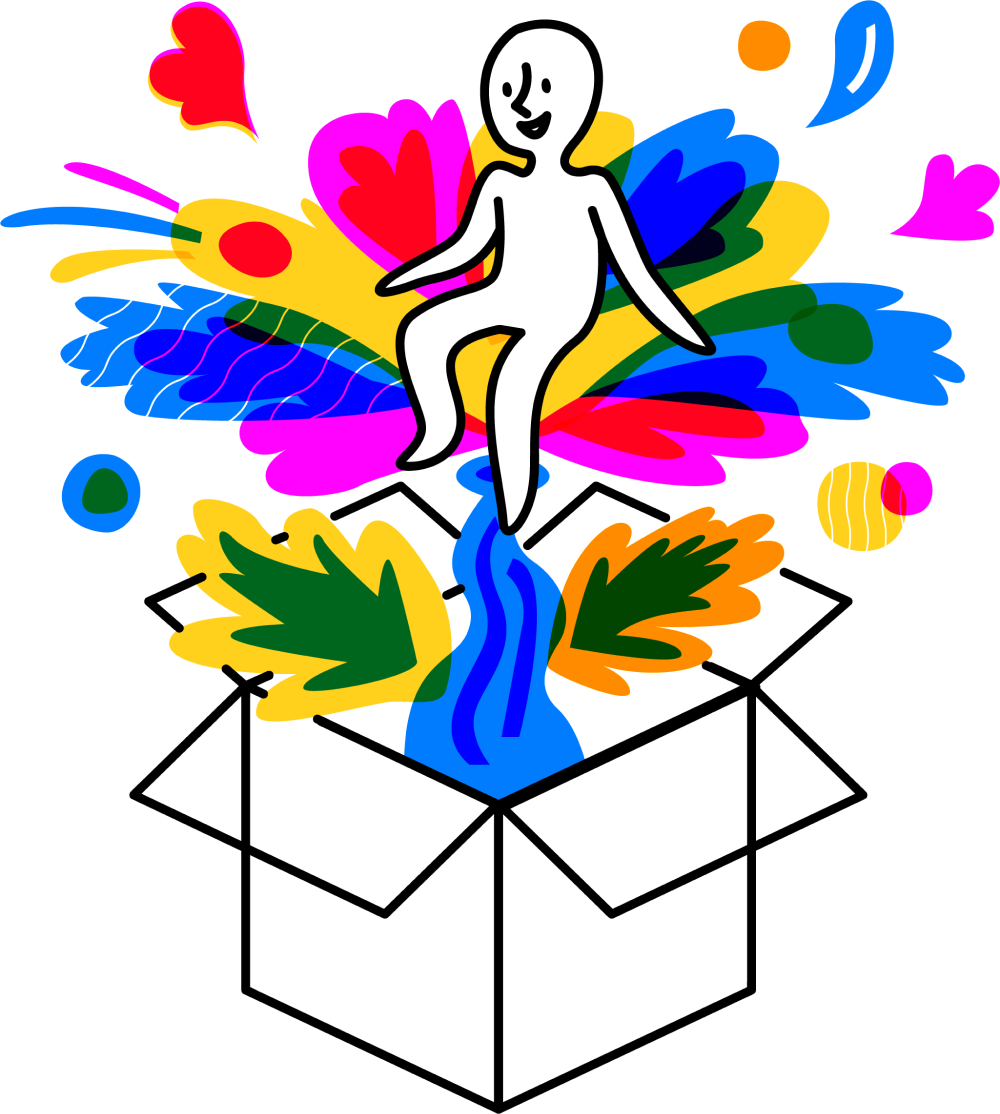
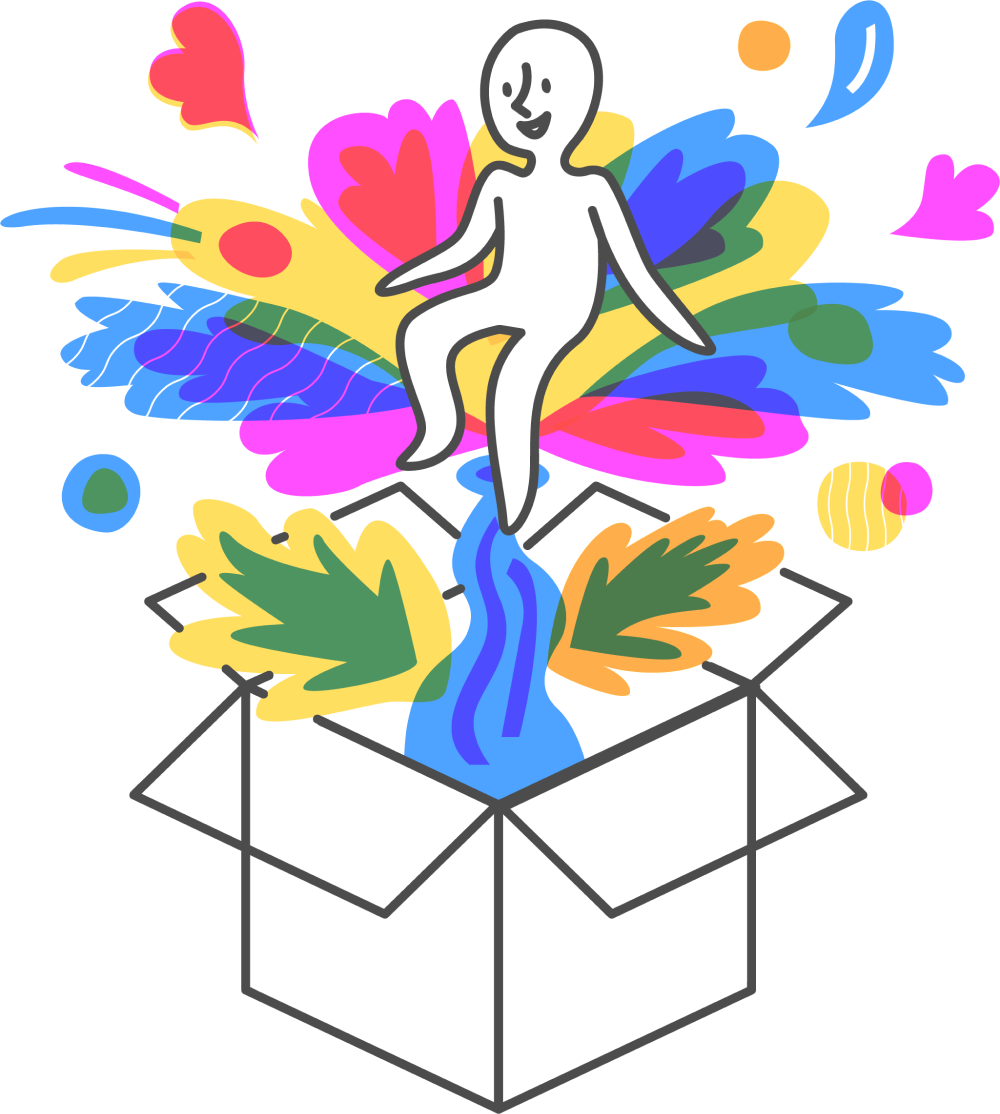
homepage update

diff --git a/css/main.min.css b/css/main.min.css
@@ -1,1 +1,1 @@
-@import url(https://rsms.me/inter/inter.css);html{font-family:Inter,sans-serif}@supports (font-variation-settings:normal){html{font-family:"Inter var",sans-serif}}:root{font-size:11px}*,::after,::before{box-sizing:border-box}body,html{height:100%;width:100%;margin:0;padding:0;scroll-behavior:smooth}body{background-color:#fff;font-family:Inter;color:#171717}.body-wrapper{overflow-x:hidden}h1{font-size:42px;font-weight:800;color:#171717;line-height:55px}25%{background-position:25% 100%}50%{background-position:50% 100%}75%{background-position:75% 100%}100%{background-position:100% 100%}.squiggle:hover{background-position:10% 100%;animation-name:animateSquiggles;animation-direction:forward;animation-duration:2s;animation-iteration-count:infinite;animation-timing-function:linear}.footer-header,.interests{font-size:32px;font-weight:800}.interests p{font-size:32px;height:42px;float:left;margin-right:.3em;opacity:.5}.interests b{font-weight:800;float:left;overflow:hidden;position:relative;height:42px;top:32px}.interests .inner-interests{display:inline-block;color:#e74c3c;position:relative;white-space:nowrap;top:0;left:0;-webkit-animation:move 6s;-moz-animation:move 6s;-ms-animation:move 6s;-o-animation:move 6s;animation:move 6s;-webkit-animation-iteration-count:infinite;-moz-animation-iteration-count:infinite;-ms-animation-iteration-count:infinite;-o-animation-iteration-count:infinite;animation-iteration-count:infinite;-webkit-animation-delay:1.3s;-moz-animation-delay:1.3s;-ms-animation-delay:1.3s;-o-animation-delay:1.3s;animation-delay:1.3s}@keyframes move{0%{top:0}20%{top:-40px}40%{top:-80px}60%{top:-120px}80%{top:-160px}}@-webkit-keyframes move{0%{top:0}20%{top:-40px}40%{top:-80px}60%{top:-120px}80%{top:-160px}}@-moz-keyframes move{0%{top:0}20%{top:-40px}40%{top:-80px}60%{top:-120px}80%{top:-160px}}@-o-keyframes move{0%{top:0}20%{top:-40px}40%{top:-80px}60%{top:-120px}80%{top:-160px}}h2{font-size:36px;margin:0 auto;text-align:center;margin-bottom:1em;position:relative;font-weight:800;padding:1em}h2:after{content:"";position:absolute;background:#000;width:30px;height:4px;bottom:0;left:50%;margin:0 0 0 -15px}h3{font-size:14px;font-weight:700}p{font-size:16px}a:active,a:link,a:visited{color:#171717;text-decoration:none}a:hover{opacity:.5;transition:all ease .3s}hr{border:.7px solid #efefef}#landing-page{position:relative;width:100vw;height:90vh;background-color:#fff}@media screen and (max-width:768px){#landing-page{height:100vh}#landing-page h1{font-size:32px;line-height:45px}.interests{display:none}}#intro{position:absolute;top:50%;left:50%;transform:translate(-50%,-50%);height:auto;width:60vw;padding:5em}@media screen and (max-width:1112px){#intro{width:80vw;padding:1em}}@media screen and (max-width:414px){#intro{width:90vw}#landing-page h1{font-size:26px;line-height:30px}}.about-container{display:flex;flex-direction:row;justify-content:center;align-items:center;width:70vw;margin:0 auto;min-height:100vh}.headshot{width:40%;padding:1.5em}.about-text{width:60%;padding:1.5em;line-height:26px}img{max-width:100%;height:auto;border-radius:10px}@media screen and (max-width:1112px){.about-container{width:100vw;padding:1em}}@media screen and (max-width:768px){.about-container{flex-direction:column}.about-text,.headshot{width:auto}}@media screen and (max-width:568px){.about-container{width:100vw}.headshot{width:auto}}#work{background-color:#f5f9fb;width:100vw;min-height:100%;display:flex;justify-content:center;flex-wrap:wrap;flex-direction:row;margin:0 auto;padding:10em 5em}#work>div{display:flex;flex-basis:calc(40% - 100px);padding:3em}@media screen and (max-width:667px){#work{padding:5em;display:block}#work>div{padding:1em}.box{max-width:500px;max-height:500px}}@media screen and (max-width:568px){#work{padding:1em}.box{max-height:400px}}.box{position:relative;margin:40px;box-shadow:0 0 15px rgba(0,0,0,.05);border-radius:10px;top:0;transition:top ease .5s;background-color:#fff;background-repeat:no-repeat}.box:hover{transform:scale(1.01);position:relative;top:-10px;transition:all ease .5s}.box1{height:60em;background:#c21a19;background-image:url(../assets/target/newtarget.png);background-size:cover;background-position:center}.box2{height:70em;background:#4e65a7;background-image:url(../assets/explorecurrent/gif.gif);background-repeat:no-repeat;background-size:160%;background-position:center bottom}.box3{height:70em;margin-top:-5em;background-image:linear-gradient(rgba(255,255,255,.15),rgba(255,255,255,.15)),url(../assets/homio/preview.png);background-size:125%}.box4{height:60em;background:#8dc2a2;margin-top:5em;background-image:url(../assets/capstone/illo3.png);background-size:60%;background-repeat:no-repeat;background-position:center 70%}@media screen and (max-width:1274px){.box3,.box4{margin-top:5em}}.project-info{position:absolute;color:#f2f2f2}.metadata{font-size:14px;font-weight:200}.description,.done-description{position:relative;color:#f2f2f2;font-size:32px;font-weight:800;text-align:left;width:13em;top:.5em}.box3:hover .done-description span,.description:hover span{display:none}.description:hover:before{content:"Coming soon"}.box3:hover .done-description:before{content:"Read case study"}@media screen and (max-width:667px){.description,.done-description{font-size:26px}}.description:hover,.done-description:hover{opacity:.7;transition:all ease .5s}@media screen and (max-width:568px){.description,.done-description{font-size:18px;width:80%}.metadata,.project-info h3{font-size:10px}.capstone,.homio,.prototyping,.target{right:0;left:0;top:1.5em}}.target-png{right:-5em;position:absolute;top:-4em;width:33%}#links{display:inline-block;height:3.5em;width:100%;font-size:18px;font-weight:800;padding:1.4em 3em}@media screen and (max-width:414px){#links{padding:1.4em 1em}}#nav-links{word-spacing:1em;float:right}.header-unpin{transform:translateY(-65px);-webkit-box-shadow:0 3px 5px rgba(57,63,72,.05);-moz-box-shadow:0 3px 5px rgba(57,63,72,.05);box-shadow:0 3px 5px rgba(57,63,72,.05)}.header-pin{transform:translateY(0)}.header{background-color:rgba(255,255,255);position:fixed;width:100%;height:65px;transition:transform .3s ease-in-out;z-index:1000}.top{position:fixed;top:0;z-index:10001;width:100%;background-color:#f1f1f1}.progress-container{width:100%;height:8px;background:#fff}.progress-bar{height:8px;width:0%;background-color:#272c34}.footer{bottom:0;text-align:center;padding:8em 0;font-size:18px}.footer a:active,.footer a:link,.footer a:visited{color:#000}.footer a:hover{opacity:.6;transition:all ease .5s}.credit{padding-top:10px;font-weight:200;font-size:16px}.icon{font-size:36px}
+@import url(https://rsms.me/inter/inter.css);html{font-family:Inter,sans-serif}@supports (font-variation-settings:normal){html{font-family:"Inter var",sans-serif}}:root{font-size:11px}*,::after,::before{box-sizing:border-box}body,html{height:100%;width:100%;margin:0;padding:0;scroll-behavior:smooth}body{background-color:#fff;font-family:Inter;color:#171717}.body-wrapper{overflow-x:hidden}h1{font-size:42px;font-weight:800;color:#171717;line-height:55px}25%{background-position:25% 100%}50%{background-position:50% 100%}75%{background-position:75% 100%}100%{background-position:100% 100%}.squiggle:hover{background-position:10% 100%;animation-name:animateSquiggles;animation-direction:forward;animation-duration:2s;animation-iteration-count:infinite;animation-timing-function:linear}.footer-header,.interests{font-size:32px;font-weight:800}.interests p{font-size:32px;height:42px;float:left;margin-right:.3em;opacity:.5}.interests b{font-weight:800;float:left;overflow:hidden;position:relative;height:42px;top:32px}.interests .inner-interests{display:inline-block;color:#e74c3c;position:relative;white-space:nowrap;top:0;left:0;-webkit-animation:move 6s;-moz-animation:move 6s;-ms-animation:move 6s;-o-animation:move 6s;animation:move 6s;-webkit-animation-iteration-count:infinite;-moz-animation-iteration-count:infinite;-ms-animation-iteration-count:infinite;-o-animation-iteration-count:infinite;animation-iteration-count:infinite;-webkit-animation-delay:1.3s;-moz-animation-delay:1.3s;-ms-animation-delay:1.3s;-o-animation-delay:1.3s;animation-delay:1.3s}@keyframes move{0%{top:0}20%{top:-40px}40%{top:-80px}60%{top:-120px}80%{top:-160px}}@-webkit-keyframes move{0%{top:0}20%{top:-40px}40%{top:-80px}60%{top:-120px}80%{top:-160px}}@-moz-keyframes move{0%{top:0}20%{top:-40px}40%{top:-80px}60%{top:-120px}80%{top:-160px}}@-o-keyframes move{0%{top:0}20%{top:-40px}40%{top:-80px}60%{top:-120px}80%{top:-160px}}h2{font-size:36px;margin:0 auto;text-align:center;margin-bottom:1em;position:relative;font-weight:800;padding:1em}h2:after{content:"";position:absolute;background:#000;width:30px;height:4px;bottom:0;left:50%;margin:0 0 0 -15px}h3{font-size:14px;font-weight:700}p{font-size:16px}a:active,a:link,a:visited{color:#171717;text-decoration:none}a:hover{opacity:.5;transition:all ease .3s}hr{border:.7px solid #efefef}#landing-page{position:relative;width:100vw;height:90vh;background-color:#fff}@media screen and (max-width:768px){#landing-page{height:100vh}#landing-page h1{font-size:32px;line-height:45px}.interests{display:none}}#intro{position:absolute;top:50%;left:50%;transform:translate(-50%,-50%);height:auto;width:60vw;padding:5em}@media screen and (max-width:1112px){#intro{width:80vw;padding:1em}}@media screen and (max-width:414px){#intro{width:90vw}#landing-page h1{font-size:26px;line-height:30px}}.about-container{display:flex;flex-direction:row;justify-content:center;align-items:center;width:70vw;margin:0 auto;min-height:100vh}.headshot{width:40%;padding:1.5em}.about-text{width:60%;padding:1.5em;line-height:26px}img{max-width:100%;height:auto;border-radius:10px}@media screen and (max-width:1112px){.about-container{width:100vw;padding:1em}}@media screen and (max-width:768px){.about-container{flex-direction:column}.about-text,.headshot{width:auto}}@media screen and (max-width:568px){.about-container{width:100vw}.headshot{width:auto}}#work{background-color:#f5f9fb;width:100vw;min-height:100%;display:flex;justify-content:center;flex-wrap:wrap;flex-direction:row;margin:0 auto;padding:10em 5em}#work>div{display:flex;flex-basis:calc(40% - 100px);padding:3em}@media screen and (max-width:667px){#work{padding:5em;display:block}#work>div{padding:1em}.box{max-width:500px;max-height:500px}}@media screen and (max-width:568px){#work{padding:1em}.box{max-height:400px}}.box{position:relative;margin:40px;box-shadow:0 0 15px rgba(0,0,0,.05);border-radius:10px;top:0;background-color:#fff;background-repeat:no-repeat;transition:all ease .5s}.box:hover{transform:scale(1.03);position:relative;top:-10px;transition:all ease .5s}.box1{height:60em;background:#c21a19;background-image:linear-gradient(rgba(255,255,255,.05),rgba(255,255,255,.05)),url(../assets/target/newtarget.png);background-size:cover;background-position:center}.box2{height:70em;background:#4e65a7;background-image:linear-gradient(rgba(255,255,255,.05),rgba(255,255,255,.05)),url(../assets/explorecurrent/gif.gif);background-repeat:no-repeat;background-size:160%;background-position:center bottom}.box3{height:70em;margin-top:-5em;background-image:linear-gradient(rgba(255,255,255,.15),rgba(255,255,255,.15)),url(../assets/homio/preview.png);background-size:125%}.box4{height:60em;background:#8dc2a2;margin-top:5em;background-image:url(../assets/capstone/illo3.png);background-size:60%;background-repeat:no-repeat;background-position:center 70%}@media screen and (max-width:1274px){.box3,.box4{margin-top:5em}}.project-info{position:absolute;color:#f2f2f2}.metadata{font-size:14px;font-weight:200}.description,.done-description{position:relative;color:#f2f2f2;font-size:32px;font-weight:800;text-align:left;width:13em;top:.5em}.box3:hover .done-description span,.description:hover span{display:none}.description:hover:before{content:"Coming soon"}.box3:hover .done-description:before{content:"Read case study"}@media screen and (max-width:667px){.description,.done-description{font-size:26px}}.description:hover,.done-description:hover{opacity:.7;transition:all ease .5s}@media screen and (max-width:568px){.description,.done-description{font-size:18px;width:80%}.metadata,.project-info h3{font-size:10px}.capstone,.homio,.prototyping,.target{right:0;left:0;top:1.5em}}#links{display:inline-block;height:3.5em;width:100%;font-size:18px;font-weight:800;padding:1.4em 3em}@media screen and (max-width:414px){#links{padding:1.4em 1em}}#nav-links{word-spacing:1em;float:right}.header-unpin{transform:translateY(-65px);-webkit-box-shadow:0 3px 5px rgba(57,63,72,.05);-moz-box-shadow:0 3px 5px rgba(57,63,72,.05);box-shadow:0 3px 5px rgba(57,63,72,.05)}.header-pin{transform:translateY(0)}.header{background-color:rgba(255,255,255);position:fixed;width:100%;height:65px;transition:transform .3s ease-in-out;z-index:1000}.top{position:fixed;top:0;z-index:10001;width:100%;background-color:#f1f1f1}.progress-container{width:100%;height:8px;background:#fff}.progress-bar{height:8px;width:0%;background-color:#272c34}.footer{bottom:0;text-align:center;padding:8em 0;font-size:18px}.footer a:active,.footer a:link,.footer a:visited{color:#000}.footer a:hover{opacity:.6;transition:all ease .5s}.credit{padding-top:10px;font-weight:200;font-size:16px}.icon{font-size:36px}

diff --git a/css/main.css b/css/main.css
@@ -338,12 +338,12 @@ img {
     box-shadow: 0 0 15px rgba(0, 0, 0, 0.05);
     border-radius: 10px;
     top: 0;
-    transition: top ease 0.5s;
     background-color: #fff;
     background-repeat: no-repeat;
+    transition: all ease 0.5s;
 }
 .box:hover {
-    transform: scale(1.01);
+    transform: scale(1.03);
     position: relative;
     top: -10px;
     transition: all ease 0.5s;
@@ -352,14 +352,15 @@ img {
 .box1 {
     height: 60em;
     background: #c21a19;
-    background-image: url(../assets/target/newtarget.png);
+    background-image: linear-gradient(rgba(255,255,255,.05), rgba(255,255,255,.05)), url(../assets/target/newtarget.png);
     background-size: cover;
     background-position: center;
 }
+
 .box2 {
     height: 70em;
     background: #4e65a7;
-    background-image: url(../assets/explorecurrent/gif.gif);
+    background-image: linear-gradient(rgba(255,255,255,.05), rgba(255,255,255,.05)), url(../assets/explorecurrent/gif.gif);
     background-repeat: no-repeat;
     background-size: 160%;
     background-position: center bottom;
@@ -426,14 +427,7 @@ img {
     opacity: 0.7;
     transition: all ease 0.5s;
 }
-/* .homio,
-.target {
-    left: -3em;
-}
-.capstone,
-.prototyping {
-    right: -3em;
-} */
+
 @media screen and (max-width: 568px) {
     .description,
     .done-description {
@@ -453,12 +447,7 @@ img {
         top: 1.5em;
     }
 }
-.target-png {
-    right: -5em;
-    position: absolute;
-    top: -4em;
-    width: 33%;
-}
+
 #links {
     display: inline-block;
     height: 3.5em;

diff --git a/target.html b/target.html
@@ -4,7 +4,7 @@
     <title>Divya Polson</title>
     <meta charset="utf-8" />
     <meta name="viewport" content="initial-scale=1, maximum-scale=1" />
-    <link rel="stylesheet" href="css/newindex.css" />
+    <link rel="stylesheet" href="css/project.css" />
     <link rel="stylesheet" href="css/fontello.min.css" />
     <!-- <script src="https://unpkg.com/scrollreveal"></script> -->
     <script async src="js/ga.js"></script>
@@ -28,14 +28,11 @@
       </div>
     </div>
 
-    <div class="project-header">
-      <div class="project-title">
-        <p style="font-weight: 200">
-          Redesigning the Target App’s post order experience
-        </p>
-        Target App UX
-      </div>
-    </div>
+    <img
+      style=" max-width: 100%;
+    height: auto;"
+      src="assets/homio/header.png"
+    />
     <div class="metadata-grid">
       <div class="col">
         <b>TIMELINE</b>
@@ -55,9 +52,9 @@
       <div class="col">
         <b>TOOLS</b>
         <p class="metadata-desc">Sketch</p>
+        <p class="metadata-desc">InVision</p>
         <p class="metadata-desc">Abstract</p>
         <p class="metadata-desc">Zeplin</p>
-        <p class="metadata-desc">Invision</p>
       </div>
     </div>
 

diff --git a/index.html b/index.html
@@ -68,7 +68,6 @@
           <p class="description target">
             <span>Target App post order experience 🔒</span>
           </p>
-          <!-- <img class="target-png" data-src="assets/target/tj.png" /> -->
         </div>
         <div class="box box2">
           <div class="project-info">
